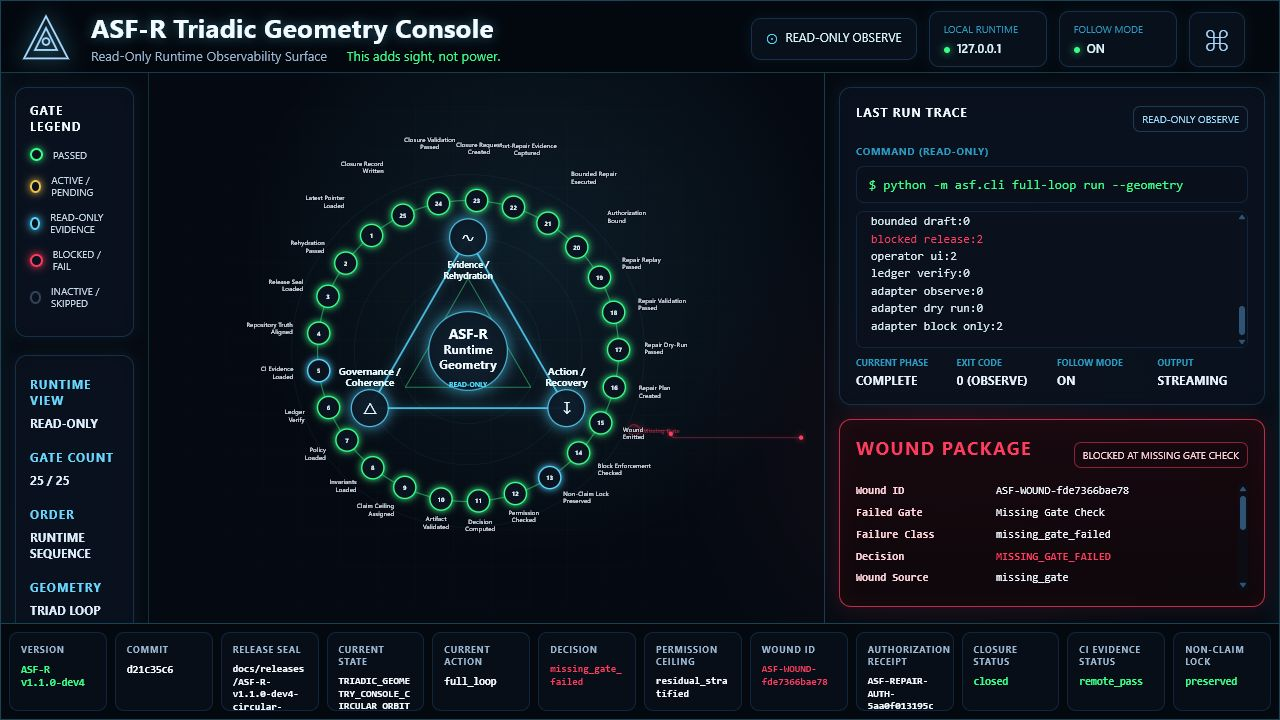
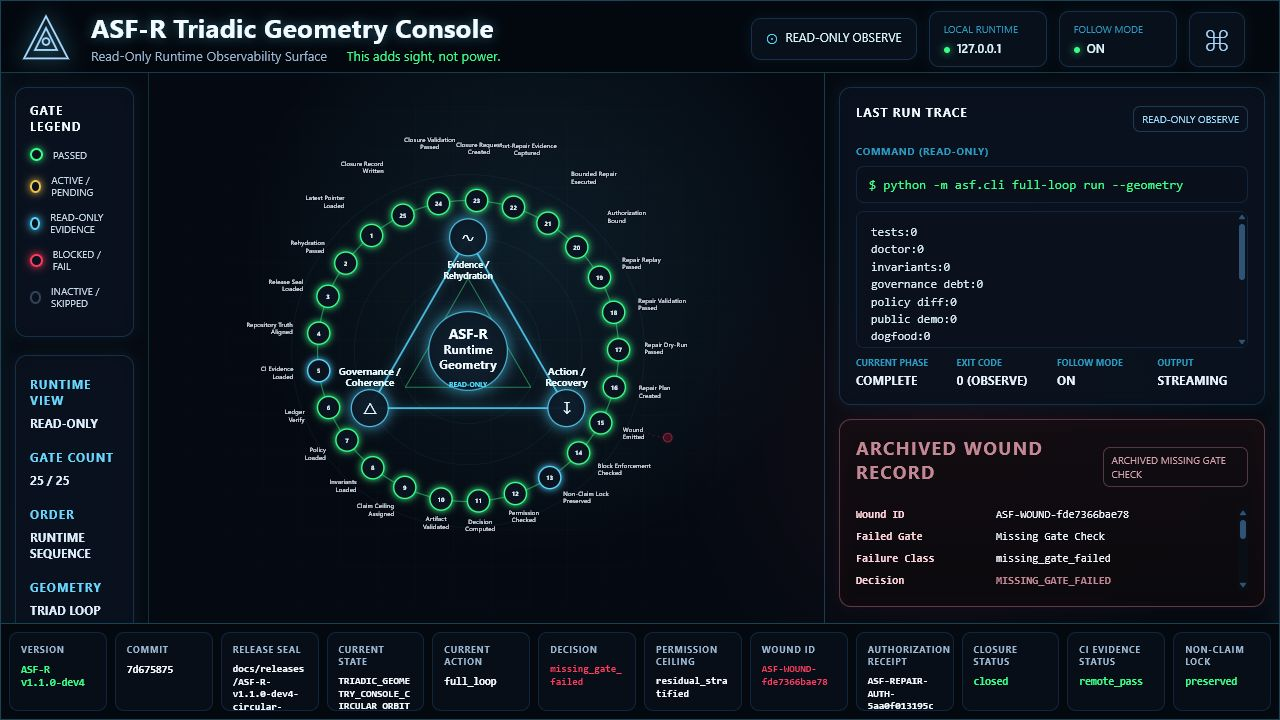
Collapse archived wound trace and prevent replay stream duplication

diff --git a/asf/ui/web/geometry.js b/asf/ui/web/geometry.js
@@ -16,7 +16,8 @@ function drawGeometry(state) {
   drawVertex(svg, geom.triangle.left.x, geom.triangle.left.y, "△", "Governance /", "Coherence");
   drawVertex(svg, geom.triangle.right.x, geom.triangle.right.y, "↧", "Action /", "Recovery");
   drawCore(svg);
-  if (state.trace && state.trace.visible) drawWoundLink(svg, state);
+  if (state.trace && state.trace.visible && state.trace.display === "full") drawWoundLink(svg, state);
+  if (state.trace && state.trace.visible && state.trace.display === "collapsed") drawArchivedWoundMarker(svg, state);
   for (const gate of state.gates) drawGate(svg, gate);
 }
 
@@ -185,9 +186,29 @@ function drawWoundLink(svg, state) {
 function drawWoundSourceNode(svg, source, mode = "active") {
   const group = svgEl("g", { class: `wound-source-node ${mode}` });
   group.appendChild(svgEl("circle", { cx: source.x, cy: source.y, r: 9 }));
-  const label = svgEl("text", { x: source.x + 14, y: source.y + 4, "text-anchor": "start" });
-  label.textContent = source.label || "Wound Source";
-  group.appendChild(label);
+  if (mode !== "archived") {
+    const label = svgEl("text", { x: source.x + 14, y: source.y - 8, "text-anchor": "start" });
+    label.textContent = source.label || "Wound Source";
+    group.appendChild(label);
+  }
+  const title = svgEl("title");
+  title.textContent = `${mode === "archived" ? "Archived wound" : "Wound source"}: ${source.label || "Wound Source"}`;
+  group.appendChild(title);
+  svg.appendChild(group);
+}
+
+function drawArchivedWoundMarker(svg, state) {
+  const source = state.wound_source_node || { x: 760, y: 474, label: "Wound Source" };
+  const markerX = 815;
+  const markerY = 486;
+  const group = svgEl("g", { class: "archived-wound-marker" });
+  group.appendChild(svgEl("path", {
+    d: `M${source.x} ${source.y} C${source.x + 22} ${source.y} ${markerX - 28} ${markerY} ${markerX} ${markerY}`,
+  }));
+  group.appendChild(svgEl("circle", { cx: markerX, cy: markerY, r: 7 }));
+  const title = svgEl("title");
+  title.textContent = `Archived wound: ${state.wound_panel?.failed_gate || source.label || "Wound Source"}`;
+  group.appendChild(title);
   svg.appendChild(group);
 }
 

diff --git a/asf/ui/web/styles.css b/asf/ui/web/styles.css
@@ -194,8 +194,16 @@ code {
     linear-gradient(180deg, rgba(26, 8, 14, 0.84), rgba(14, 7, 10, 0.92));
   box-shadow: 0 0 18px rgba(255, 59, 95, 0.15), inset 0 0 20px rgba(139, 16, 36, 0.13);
 }
+.wound-panel.archived {
+  border-color: rgba(139, 96, 108, 0.58);
+  background:
+    linear-gradient(180deg, rgba(19, 13, 17, 0.88), rgba(11, 9, 13, 0.94));
+  box-shadow: 0 0 10px rgba(255, 59, 95, 0.06), inset 0 0 16px rgba(139, 16, 36, 0.07);
+}
 .wound-head h2 { color: var(--asf-red); font-size: 18px; }
 .wound-head span { color: #ffd7de; border-color: rgba(255, 59, 95, 0.5); }
+.wound-panel.archived .wound-head h2 { color: #c48794; }
+.wound-panel.archived .wound-head span { color: #d6a4ae; border-color: rgba(196, 135, 148, 0.36); }
 .wound-fields {
   display: grid;
   grid-template-columns: 128px 1fr;
@@ -212,6 +220,7 @@ code {
 .wound-fields b { color: #ffd4dc; font-weight: 600; }
 .wound-fields span { color: #f0f7ff; overflow-wrap: anywhere; }
 .wound-fields .hot { color: var(--asf-red); text-transform: uppercase; font-weight: 700; }
+.wound-panel.archived .wound-fields .hot { color: #c48794; }
 
 .status-cards {
   display: grid;
@@ -270,6 +279,8 @@ code {
 .wound-source-node circle { fill: rgba(255, 59, 95, 0.18); stroke: var(--asf-red); stroke-width: 1.8px; filter: drop-shadow(0 0 7px rgba(255, 59, 95, 0.7)); }
 .wound-source-node text { fill: var(--asf-red); font-size: 10px; font-weight: 700; paint-order: stroke; stroke: rgba(5, 10, 18, 0.8); stroke-width: 3px; stroke-linejoin: round; }
 .wound-source-node.archived { opacity: 0.48; }
+.archived-wound-marker path { fill: none; stroke: rgba(255, 59, 95, 0.32); stroke-width: 1px; stroke-dasharray: 3 5; }
+.archived-wound-marker circle { fill: rgba(139, 16, 36, 0.32); stroke: rgba(255, 59, 95, 0.52); stroke-width: 1.4px; filter: drop-shadow(0 0 3px rgba(255, 59, 95, 0.25)); }
 .wound-link { stroke: rgba(255, 59, 95, 0.75); stroke-width: 2; fill: none; filter: drop-shadow(0 0 6px var(--asf-red)); animation: pulse-red 1.9s infinite; }
 .core-circle { fill: rgba(11, 19, 32, 0.93); stroke: rgba(86, 216, 255, 0.72); stroke-width: 2; filter: drop-shadow(0 0 13px rgba(86, 216, 255, 0.72)); }
 .vertex-core { fill: rgba(11, 19, 32, 0.93); stroke: rgba(86, 216, 255, 0.82); stroke-width: 2; filter: drop-shadow(0 0 11px rgba(86, 216, 255, 0.78)); }

diff --git a/asf/ui/web/app.js b/asf/ui/web/app.js
@@ -42,10 +42,14 @@ function statusFromLine(line) {
 function renderWound(panel) {
   const box = document.getElementById("wound-panel");
   const gate = document.getElementById("wound-gate");
+  const heading = box.querySelector("h2");
   const fields = document.getElementById("wound-fields");
   box.classList.toggle("blocked", panel.status === "blocked");
+  box.classList.toggle("archived", panel.closure_status === "closed");
+  if (heading) heading.textContent = panel.record_label || (panel.closure_status === "closed" ? "ARCHIVED WOUND RECORD" : "WOUND PACKAGE");
   const gateLabel = panel.failed_gate_id ? `GATE ${panel.failed_gate_id}` : String(panel.failed_gate || "WOUND SOURCE").toUpperCase();
-  gate.textContent = panel.status === "blocked" ? `BLOCKED AT ${gateLabel}` : "NO ACTIVE WOUND";
+  const defaultBadge = panel.closure_status === "closed" ? `ARCHIVED ${gateLabel}` : `BLOCKED AT ${gateLabel}`;
+  gate.textContent = panel.status === "blocked" ? (panel.badge_label || defaultBadge) : "NO ACTIVE WOUND";
   if (panel.message) {
     fields.innerHTML = `<b>Status</b><span>${panel.message}</span>`;
     return;
@@ -95,6 +99,7 @@ function connectEvents() {
   const source = new EventSource("/events");
   source.addEventListener("cli_line", event => {
     const payload = JSON.parse(event.data);
+    if (!latestState || latestState.cli_panel?.panel_state !== "active_run" || payload.mode === "replay") return;
     const stream = document.getElementById("cli-stream");
     const row = document.createElement("div");
     row.className = `stream-line ${statusFromLine(payload.message)}`;

diff --git a/tests/test_triadic_geometry_console.py b/tests/test_triadic_geometry_console.py
@@ -222,6 +222,12 @@ class TriadicGeometryConsoleTests(unittest.TestCase):
     def test_closed_wound_trace_is_archived_not_active(self):
         state = build_geometry_state(ROOT, SAMPLE_SUMMARY)
         self.assertEqual(state.trace["mode"], "archived")
+        self.assertEqual(state.trace["display"], "collapsed")
+
+    def test_closed_wound_trace_display_collapsed(self):
+        state = build_geometry_state(ROOT, SAMPLE_SUMMARY)
+        self.assertEqual(state.trace["mode"], "archived")
+        self.assertEqual(state.trace["display"], "collapsed")
 
     def test_open_wound_trace_is_active(self):
         summary = dict(SAMPLE_SUMMARY)
@@ -230,6 +236,32 @@ class TriadicGeometryConsoleTests(unittest.TestCase):
         self.assertEqual(state.status_strip["closure_status"], "not closed")
         self.assertEqual(state.wound_panel["closure_status"], "not closed")
         self.assertEqual(state.trace["mode"], "active")
+        self.assertEqual(state.trace["display"], "full")
+
+    def test_active_wound_trace_display_full(self):
+        summary = dict(SAMPLE_SUMMARY)
+        summary.pop("closure_record")
+        state = build_geometry_state(ROOT, summary)
+        self.assertEqual(state.trace["display"], "full")
+
+    def test_no_wound_trace_display_none(self):
+        summary = dict(SAMPLE_SUMMARY)
+        summary.pop("wound_package")
+        state = build_geometry_state(ROOT, summary)
+        self.assertEqual(state.trace["display"], "none")
+        self.assertFalse(state.trace["visible"])
+
+    def test_archived_wound_panel_uses_archived_language(self):
+        panel = build_geometry_state(ROOT, SAMPLE_SUMMARY).wound_panel
+        self.assertEqual(panel["record_label"], "ARCHIVED WOUND RECORD")
+        self.assertEqual(panel["badge_label"], "ARCHIVED MISSING GATE CHECK")
+
+    def test_active_wound_panel_uses_blocked_language(self):
+        summary = dict(SAMPLE_SUMMARY)
+        summary.pop("closure_record")
+        panel = build_geometry_state(ROOT, summary).wound_panel
+        self.assertEqual(panel["record_label"], "WOUND PACKAGE")
+        self.assertEqual(panel["badge_label"], "")
 
     def test_gate_22_25_labels_have_top_band_offsets(self):
         state = build_geometry_state(ROOT, SAMPLE_SUMMARY)
@@ -284,6 +316,29 @@ class TriadicGeometryConsoleTests(unittest.TestCase):
         self.assertIn("drawWoundLink", geometry)
         self.assertIn("circuit-trace", geometry)
         self.assertIn("circuit-pad", geometry)
+
+    def test_archived_trace_does_not_render_long_circuit_path(self):
+        geometry = (ROOT / "asf" / "ui" / "web" / "geometry.js").read_text(encoding="utf-8")
+        self.assertIn('trace.display === "full"', geometry)
+        self.assertIn("drawArchivedWoundMarker", geometry)
+
+    def test_archived_trace_does_not_render_bright_circuit_pads(self):
+        geometry = (ROOT / "asf" / "ui" / "web" / "geometry.js").read_text(encoding="utf-8")
+        archived_branch = geometry.split("function drawArchivedWoundMarker", 1)[1]
+        self.assertNotIn("circuit-pad", archived_branch)
+
+    def test_missing_gate_source_label_hidden_when_archived(self):
+        geometry = (ROOT / "asf" / "ui" / "web" / "geometry.js").read_text(encoding="utf-8")
+        self.assertIn('if (mode !== "archived")', geometry)
+
+    def test_eventsource_does_not_append_cli_lines_in_last_run_trace_mode(self):
+        app = (ROOT / "asf" / "ui" / "web" / "app.js").read_text(encoding="utf-8")
+        self.assertIn('latestState.cli_panel?.panel_state !== "active_run"', app)
+
+    def test_eventsource_appends_cli_lines_only_in_active_run_mode(self):
+        app = (ROOT / "asf" / "ui" / "web" / "app.js").read_text(encoding="utf-8")
+        self.assertIn('panel_state !== "active_run"', app)
+        self.assertIn("appendChild(row)", app)
 
     def test_geometry_server_exposes_state_json(self):
         server, thread, base = start_geometry_server()

diff --git a/asf/ui/geometry/gate_mapper.py b/asf/ui/geometry/gate_mapper.py
@@ -216,6 +216,8 @@ def wound_panel(wound: dict[str, Any], decision: dict[str, Any], closure_status:
     failed_gate_id = failed_gate_from_source(wound, decision)
     return {
         "status": "blocked",
+        "record_label": "ARCHIVED WOUND RECORD" if closure_status == "closed" else "WOUND PACKAGE",
+        "badge_label": "ARCHIVED MISSING GATE CHECK" if closure_status == "closed" and source == "missing_gate" else "",
         "wound_id": wound.get("wound_id", "unknown"),
         "failed_gate": "Missing Gate Check" if source == "missing_gate" else wound.get("failed_gate", "Runtime Gate"),
         "failed_gate_id": failed_gate_id,
@@ -366,14 +368,17 @@ def resolve_closure_status(summary: dict[str, Any], wound: dict[str, Any], closu
 
 def trace_state(gates: list[GeometryGate], panel: dict[str, Any], closure_status: str) -> dict[str, Any]:
     if panel.get("status") != "blocked":
-        return {"visible": False, "mode": "hidden", "source": "none", "failed_gate_id": None}
+        return {"visible": False, "mode": "hidden", "display": "none", "source": "none", "failed_gate_id": None}
+    mode = "archived" if closure_status == "closed" else "active"
+    display = "collapsed" if mode == "archived" else "full"
     real_gate_id = panel.get("failed_gate_id")
     if real_gate_id is not None:
         gate = next((item for item in gates if item.gate_id == real_gate_id), None)
         if gate and gate.failed:
             return {
                 "visible": True,
-                "mode": "archived" if closure_status == "closed" else "active",
+                "mode": mode,
+                "display": display,
                 "source": "failed_gate",
                 "failed_gate_id": real_gate_id,
                 "wound_source_node": None,
@@ -381,7 +386,8 @@ def trace_state(gates: list[GeometryGate], panel: dict[str, Any], closure_status
     node = synthetic_wound_source_node(panel.get("wound_source", "generic_wound"))
     return {
         "visible": True,
-        "mode": "archived" if closure_status == "closed" else "active",
+        "mode": mode,
+        "display": display,
         "source": "synthetic_wound_source",
         "failed_gate_id": None,
         "wound_source_node": node,

diff --git a/tests/test_v092_v10_packaging.py b/tests/test_v092_v10_packaging.py
@@ -151,7 +151,7 @@ class V10PackagingTests(unittest.TestCase):
 
     def test_workflow_ci_evidence_uses_release_candidate_test_count(self):
         workflow = (ROOT / ".github" / "workflows" / "asf-guard.yml").read_text(encoding="utf-8")
-        self.assertIn("--test-count 325", workflow)
+        self.assertIn("--test-count 335", workflow)
 
 
 if __name__ == "__main__":